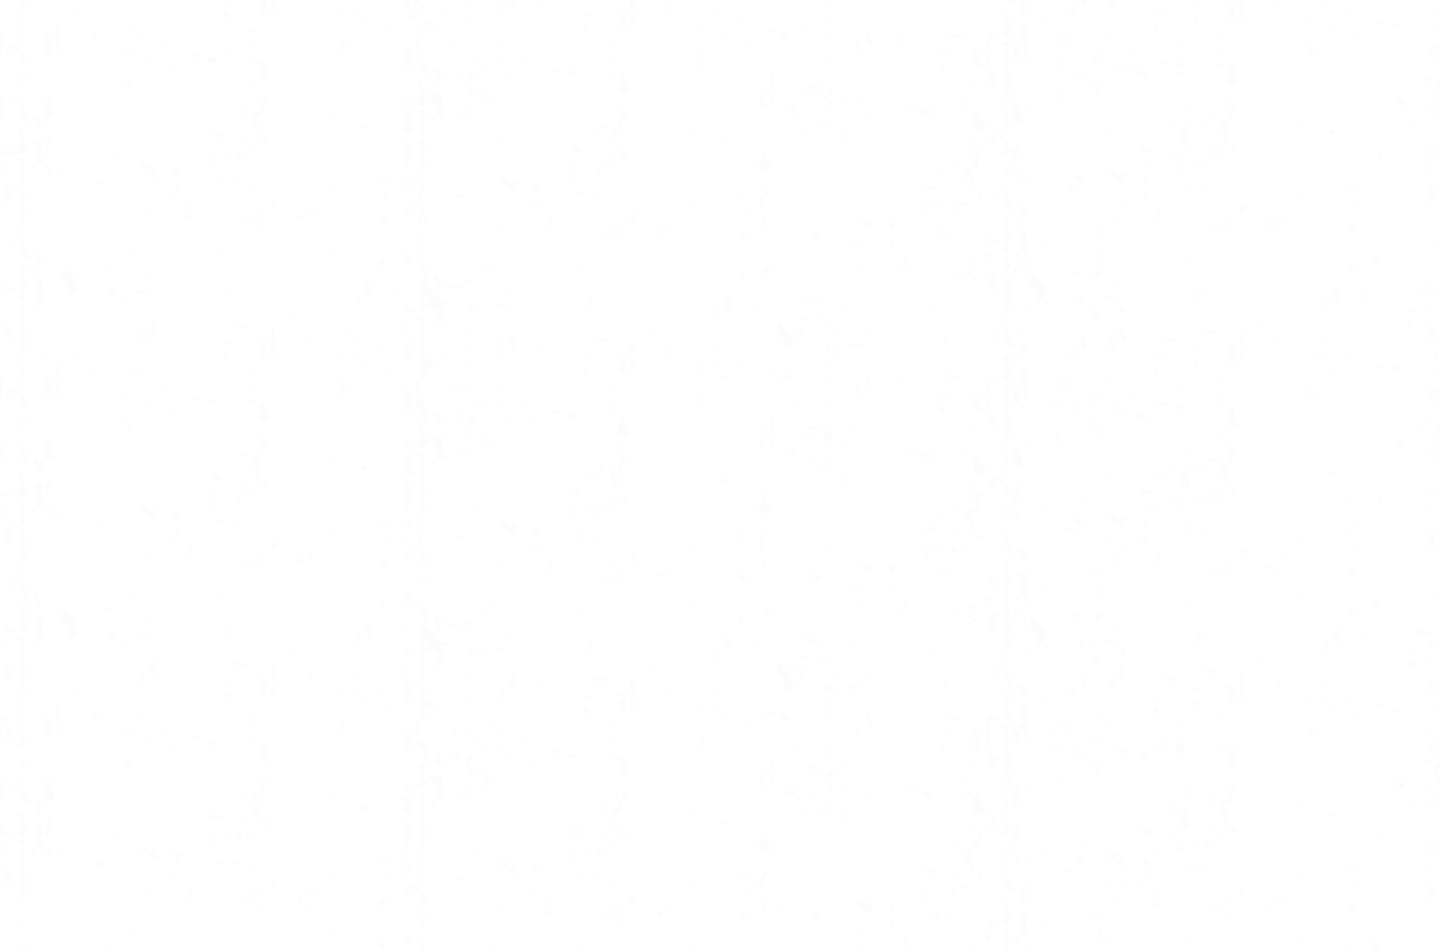
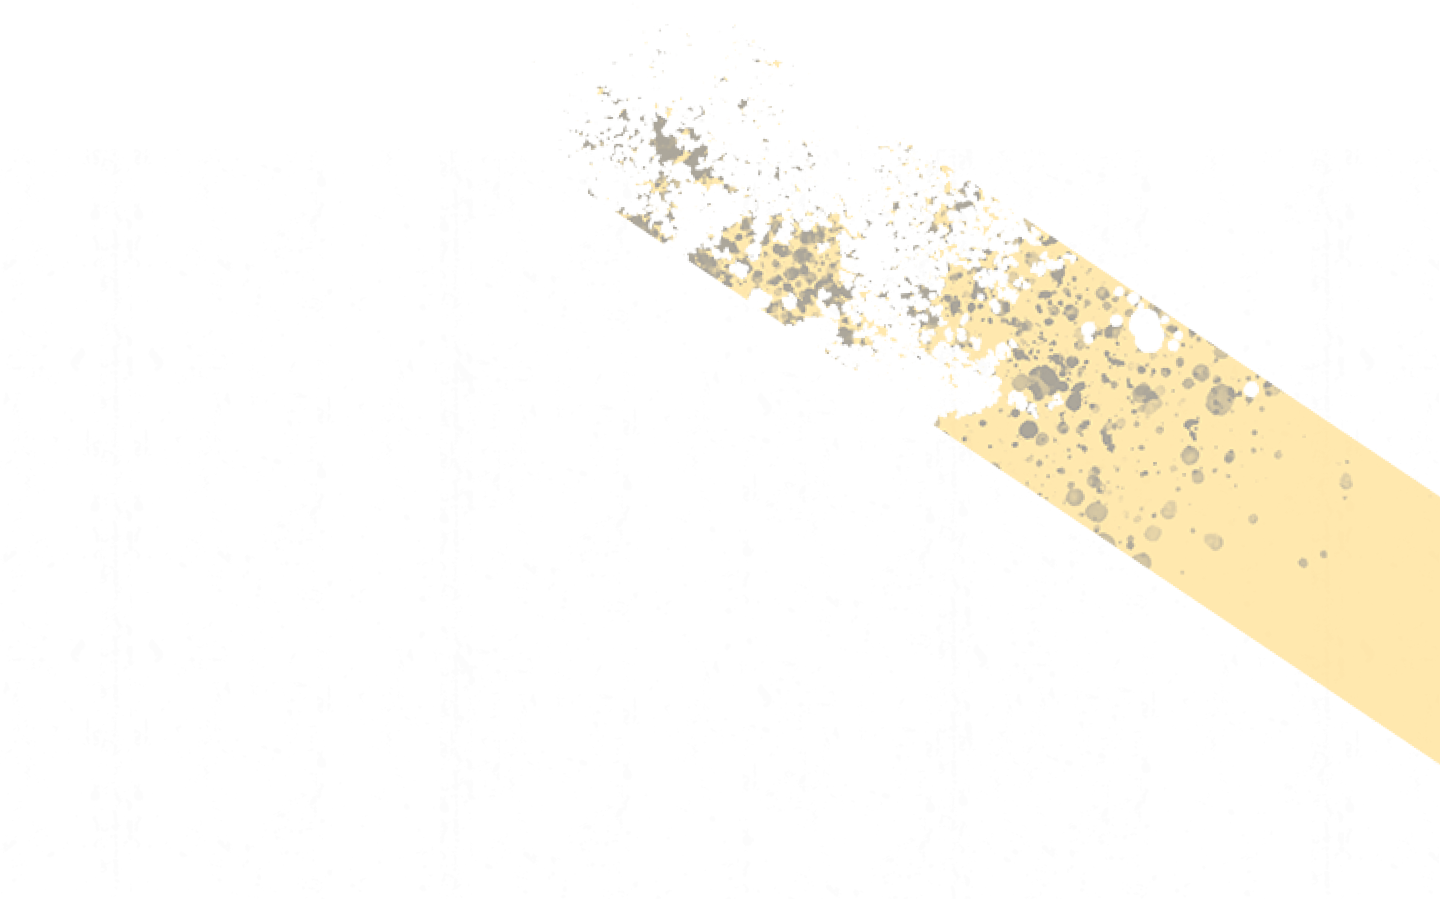
Atualizado alguns fundos do website

Changed region(s): [[0.4062, 0.1246, 1.0, 0.8409]]

diff --git a/Speed Form Academias/styles/loja.css b/Speed Form Academias/styles/loja.css
@@ -1,30 +1,39 @@
 .nossaLoja {
-    padding-top: 20%;
     width: 100%;
-    height: 1500px;
-    padding-inline: 125px;
-    /* background: url(../img/backgroundLoja.png); */
+    height: 900px;
+    background: url(../img/backgroundLoja.png);
     background-size: cover;
     background-repeat: no-repeat;
     background-position: center;
+    display: flex;
+    flex-direction: column;
+    gap: 50px;
 }
 
-.nossaLoja h3 {
+.nossaLojaTexto {
+    width: 600px;
+    height: 200px;
+    margin-left: 200px;
+    display: flex;
+}
+
+.TextoNossaLoja {
+    flex-direction: column;
+}
+
+
+.TextoNossaLoja h3 {
     font-size: 32px;
     font-weight: bold;
+    margin-bottom: 20px;
 }
 
-.nossaLoja p {
-    padding-top: 50px;
-    margin-left: 40px;
-    max-width: 300px;
-}
 
 .lojaSimbolo {
     width: 100%;
     height: 100%;
     display: flex;
-    justify-content: end;
+    justify-content: start;
     align-items: flex-start;
 }
 

diff --git a/Speed Form Academias/index.html b/Speed Form Academias/index.html
@@ -55,12 +55,14 @@
 
         <div class="nossaLoja">
             <div class="nossaLojaTexto">
-                <h3>Nossa Loja</h3>
+                <div class="lojaSimbolo">
+                    <img src="img/simboloLoja.png">
+                </div>
+                <div class="TextoNossaLoja">
+                    <h3>Nossa Loja</h3>
                 <p>Lorem ipsum dolor sit amet, consectetur adipisicing elit. Atque consectetur quidem, provident
                     iusto eos ea asperiores non, sapiente accusantium corporis maiores, facere deserunt veritatis!
                     Suscipit quibusdam cum porro sit iusto.</p>
-                <div class="lojaSimbolo">
-                    <img src="img/simboloLoja.png">
                 </div>
             </div>
 

diff --git a/Speed Form Academias/styles/mensalidade.css b/Speed Form Academias/styles/mensalidade.css
@@ -2,7 +2,7 @@
     width: 100%;
     height: 1000px;
     background: url(../img/backgroundPrecos.png);
-    background-position: center;
+    background-position: top;
     background-size: cover;
     background-repeat: no-repeat;
 }

diff --git a/Speed Form Academias/styles/sobre.css b/Speed Form Academias/styles/sobre.css
@@ -7,7 +7,7 @@
     background: url(../img/sobrenosTexturas.png);
     background-size: cover;
     background-repeat: no-repeat;
-    background-position: center;
+    background-position: top;
 }
 
 .sobreNosTexto {
